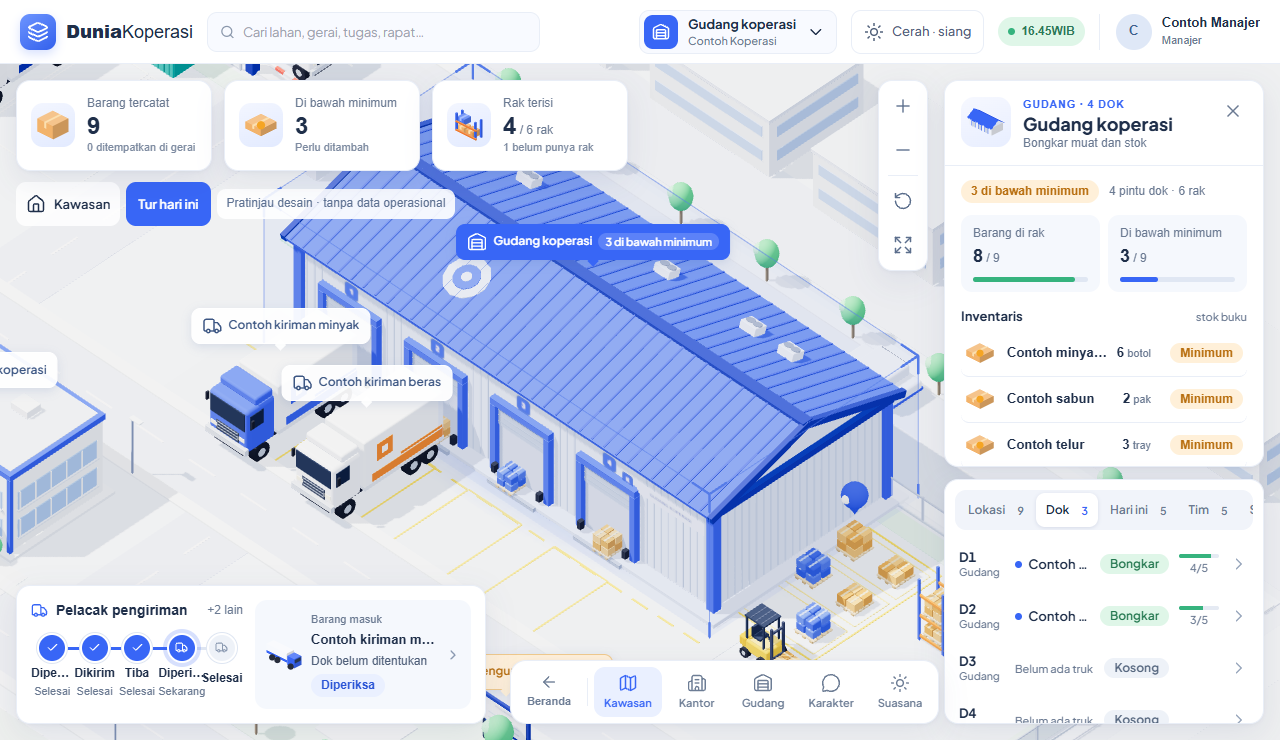
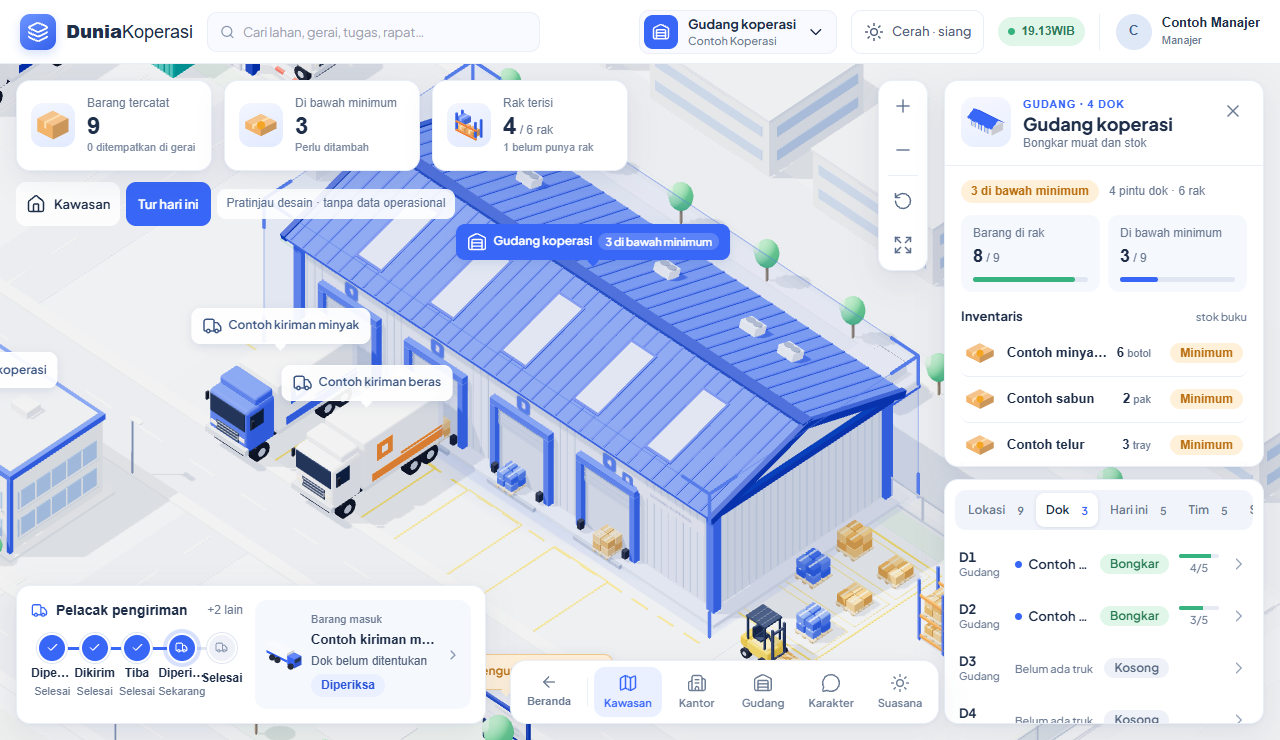
Dokumen dan bukti perbaikan kecil v3.1

diff --git a/docs/DUNIA-KOPERASI.md b/docs/DUNIA-KOPERASI.md
@@ -41,12 +41,12 @@ Arsip `PANDUAN_AGENT_DUNIA_KOPERASI.md` dan `dunia-koperasi-referensi-luas.html`
 
 | Unsur video | Perilaku di video | Implementasi | Sumber data |
 |---|---|---|---|
-| Gudang dok (WH-04) | Dinding bergelombang terang, atap pelana biru bergaris, kolom sudut dan kusen dok biru, nomor dok, palet di ambang pintu, unit AC dan logo bulat di atap | `objects/warehouse.ts` `createWarehouse` | Statis; klik = `gudang` |
+| Gudang dok (WH-04) | Dinding bergelombang terang, atap pelana biru bergaris, kolom sudut dan kusen dok biru, nomor dok, palet di ambang pintu, unit AC dan skylight di atap (logo bulat dihapus, v3.1) | `objects/warehouse.ts` `createWarehouse` | Statis; klik = `gudang` |
 | Truk boks cab-over | Kabin biru atau putih bergaris teal/oranye/navy, kaca gelap, gril, boks putih berlogo | `objects/vehicles.ts` `truck`, skema dari ID | Pengiriman dikirim/tiba/diperiksa |
 | Klik truk | Kotak seleksi biru bersiku, label biru "nama · status", kamera terbang, **garis rute**: pita biru (dilalui) + titik-titik (sisa) + cakram dan pin di dok | `objects/highlight.ts`, `objects/route.ts`, `truck-routes.ts` `truckRoute/truckFocus` | Rute skematis kawasan, bukan GPS |
 | Forklift kuning | Atap pelindung hitam, tiang, garpu membawa palet, bergerak | `props.ts` `forklift`; satu forklift suasana bolak-balik staging → rak luar (`pathPose`) | Simulasi lingkungan berlabel |
 | Palet kardus / kemasan biru | Kardus oranye berlakban, kemasan biru berbalut | `props.ts` `cardboardPallet`, `palletRack` | Pemandangan; rak interior dari Barang |
-| Pin biru | Tetes biru di atas barang | `props.ts` `dropPin` | Hanya data: stok di bawah minimum, dok tujuan rute |
+| Pin biru | Tetes biru di atas barang | `props.ts` `dropPin` | Hanya dok tujuan rute (v3.1: pin di atas peti dihapus; stok minimum lewat label kuning gudang) |
 | Pagar kaca, rumput, pohon bulat | Panel transparan, jalur rumput, pohon berbaris | `exterior.ts` (`mergeTransparent`) | Statis |
 | Kota di latar | Blok putih berjendela biru | `exterior.ts` `cityBlocks` (utara/barat tinggi, timur/selatan rendah) | Statis |
 | Kartu detail | Ilustrasi + eyebrow + judul + pill + progres + baris kunci–nilai + daftar inventaris | `ui/DetailCard.tsx`, `ui/WorldIcon.tsx` | Catatan asli |
@@ -60,7 +60,7 @@ Arsip `PANDUAN_AGENT_DUNIA_KOPERASI.md` dan `dunia-koperasi-referensi-luas.html`
 - **Forklift**: ±1,1 × 2,4 × 2,2, badan #f5b82e, atap hitam, garpu ke +Z, opsi muatan kardus/kemasan.
 - **Kantor**: 8 × 4 × 5,4 putih, dua pita kaca #9fc0f5 dengan tiang putih, parapet biru, kanopi pintu biru, papan KOPERASI. **Gerai**: 3,8 × 2,2 × 2,6 putih, tenda bergaris biru-putih 7 lajur, etalase, papan nama dari judul Gerai.
 - **Lingkungan**: tanah #e9eefb, aspal #d3dbee bermarka putih, rumput #d3efdd di kaki pagar, pagar tiang #b9c4d8 + panel transparan #dfe8f8 (opasitas 0,38), pohon batang #8a7a66 tajuk #4cc47f/#8fe0ac, kontainer teal di utara petak antre.
-- **Seleksi**: sisi biru 7 %, garis tepi 55 %, siku 0,07 tebal di delapan sudut, cahaya lantai gradien. **Rute**: pita 0,78 lebar + panah putih tiap 2,4, titik r 0,2 tiap 0,95, cakram r 0,85 + pin bergoyang di dok tujuan; material dasar (tidak terpengaruh cahaya).
+- **Seleksi**: kotak 3D, isi biru 9 %, garis tepi 50 %, siku tebal 0,1 sepanjang ±25 % tiap sisi (maks. 1,6) di delapan sudut, cahaya lantai gradien; diikat ke objek dan diperbarui tiap frame. **Rute**: pita 0,78 lebar + panah putih tiap 2,4, titik r 0,2 tiap 0,95, cakram r 0,85 + pin bergoyang di dok tujuan; material dasar (tidak terpengaruh cahaya).
 - Anggaran terukur 1280–1440 px kualitas Tinggi, data contoh: 58–89 draw call (batas 150).
 
 ### Spesifikasi kartu (lihat kartu-contoh.html)
@@ -75,6 +75,9 @@ Arsip `PANDUAN_AGENT_DUNIA_KOPERASI.md` dan `dunia-koperasi-referensi-luas.html`
 ### Interaksi
 
 - Klik truk (scene, label, daftar, tab Dok) → kotak seleksi, label biru, rute, kamera terbang ke tengah truk–dok (zoom 0,68 antre / 1,05 dok). Objek lain: klik di scene tidak memindahkan kamera; pilihan dari daftar menerbangkan kamera.
+- v3.1: semua objek bergerak (forklift, kendaraan jalan, karakter Tim, maskot) dapat diklik; penunjuk ikut bergerak dan kamera mengikuti sampai pengguna menggeser/memutar/zoom, memilih objek lain, menutup kartu, kendaraan melompat ke ujung jalan, atau objek keluar radius fokus.
+- v3.1: tanpa tombol/bubble maskot. Maskot dipilih lewat badannya; alasan rencana di kartu detail ("Sedang"). Bubble "…" hanya percakapan: Tim berpapasan dan manajer saat tiba di meja staf atau dok (4 detik).
+- v3.1: tanah tak berujung (2000 unit, warna tanah kota) dengan kabut ke warna langit (pink senja tetap), kamera ortografis dijauhkan, zoom keluar minimum 0,38 (`minWorldZoom`).
 - Forklift suasana bergerak bolak-balik; kendaraan jalan utama (truk boks + mobil) melaju; semuanya berhenti saat reduced-motion dan kartunya berlabel **Simulasi lingkungan**.
 
 ### Daftar periksa anti-meleset (wajib sebelum melapor selesai)

diff --git a/docs/STATUS.md b/docs/STATUS.md
@@ -14,6 +14,10 @@ Implementasi lokal, belum dinilai pemilik. Aset baru dari kode: gudang dok ala v
 
 Bukti: 296 tes/45 berkas, typecheck, lint dan build lulus. Tangkapan headless Chromium (SwiftShader) data contoh pada 375, 768, 1024, 1280 dan 1440 px; 58–89 draw call. Belum: perangkat fisik, rekaman gerak, data cloud, penilaian pemilik. Di 1024–1279 px dock masih menutupi baris bawah kartu Daftar (keadaan lama).
 
+## Perbaikan kecil v3.1 (6 Oktober, hasil wawancara pemilik)
+
+Selesai lokal: tanah tak berujung berkabut tanpa tepi pink saat zoom keluar, batas zoom; skylight menggantikan logo atap, pin peti dihapus; penunjuk kotak bersiku tebal mengikuti objek bergerak; kamera mengikuti objek bergerak terpilih; maskot tanpa tombol/bubble, bubble hanya percakapan. Bukti: 296 tes lulus, typecheck/lint/build, tangkapan headless (forklift diikuti, zoom senja). Belum: perangkat fisik, rekaman gerak percakapan manajer.
+
 ## Penilaian pemilik terbaru
 
 Versi sekarang belum diterima: kawasan kecil/sepi, mobil belum ada, tampilan agak gelap, pengaturan waktu tidak mudah ditemukan dan perpindahan karakter belum terlihat. Gym aktif serta patroli manajer sesekali belum tersedia. Kontrol manual/animasi pose ada dalam kode, tetapi bukan bukti pengalaman tersebut memenuhi permintaan. Rencana paket revisi ada hanya di [DUNIA-KOPERASI](DUNIA-KOPERASI.md); pembaruan ini dokumentasi, belum implementasi runtime.

diff --git a/docs/LANJUTAN-AI.md b/docs/LANJUTAN-AI.md
@@ -31,7 +31,7 @@ Kerjakan berurutan; satu commit lokal per langkah (tanpa push). Centang di sini 
 - [x] 3. Penunjuk kotak 3D ala video: siku tebal 0,1 dan ±25 % sisi di 8 sudut, garis tepi 50 %, isi 8–10 %, cahaya lantai; diperbarui tiap frame agar ikut objek bergerak (forklift, kendaraan jalan, karakter Tim, maskot). Semua objek bergerak dapat dipilih, tanpa label tambahan.
 - [x] 4. Kamera mengikuti objek bergerak terpilih; berhenti bila pengguna geser/putar/zoom, memilih objek lain, menutup kartu, atau kendaraan melompat ke ujung jalan. Klik lagi untuk mengikuti.
 - [x] 5. Manajer: hapus tombol balon biru di atas kepala dan bubble otomatis; maskot dipilih dengan klik badan; alasan rencana tampil di kartu detail maskot. Bubble "…" hanya untuk percakapan: Tim berpapasan (sudah ada) dan manajer saat berhenti di meja staf/dok (3–5 detik, di atas manajer dan lawan bicara).
-- [ ] 6. Perbarui Blueprint v3 di DUNIA-KOPERASI, lembar aset, STATUS, CHANGELOG; tes/typecheck/lint/build; tag checkpoint/v3-1 sebelum langkah 1.
+- [x] 6. Perbarui Blueprint v3 di DUNIA-KOPERASI, lembar aset, STATUS, CHANGELOG; tes/typecheck/lint/build; tag checkpoint/v3-1 sebelum langkah 1.
 
 ## Paket terakhir
 

diff --git a/CHANGELOG.md b/CHANGELOG.md
@@ -1,5 +1,12 @@
 # Changelog
 
+## Perbaikan kecil v3.1 — 6 Oktober 2026
+
+- Tanah tak berujung + kabut, zoom keluar dibatasi; tidak ada tepi pink.
+- Skylight atap gudang, pin di atas peti dihapus, pin rute lebih kecil.
+- Penunjuk kotak 3D bersiku tebal mengikuti objek bergerak; kamera mengikuti objek bergerak terpilih.
+- Tombol dan bubble maskot dihapus; bubble "…" untuk percakapan manajer di meja staf/dok.
+
 ## Blueprint visual v3 — mengikuti video — 6 Oktober 2026
 
 - Aset 3D baru: gudang dok ala video, truk cab-over empat skema, forklift, palet, rak luar, kontainer, kantor dan gerai baru, pagar kaca, pohon, blok kota; primitif gable/badge/cone/mergeTransparent.
